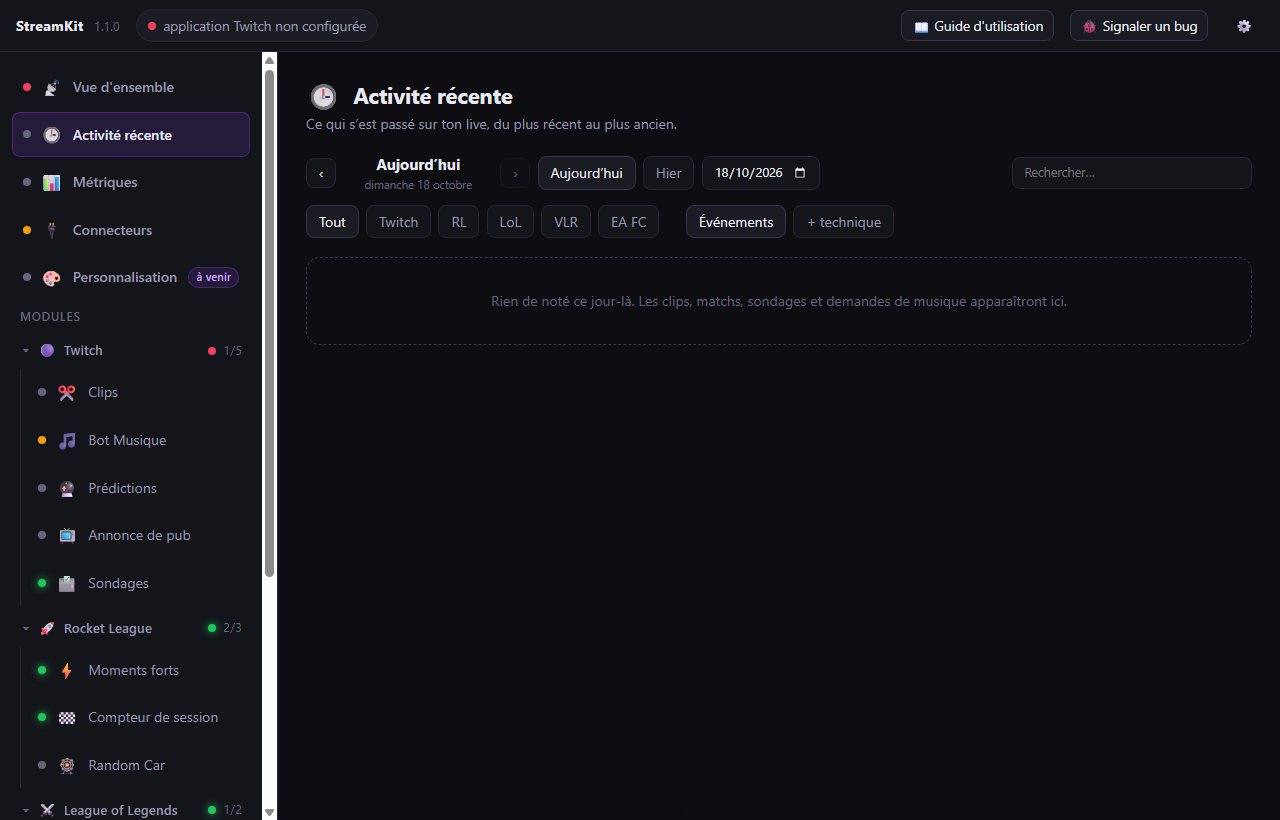
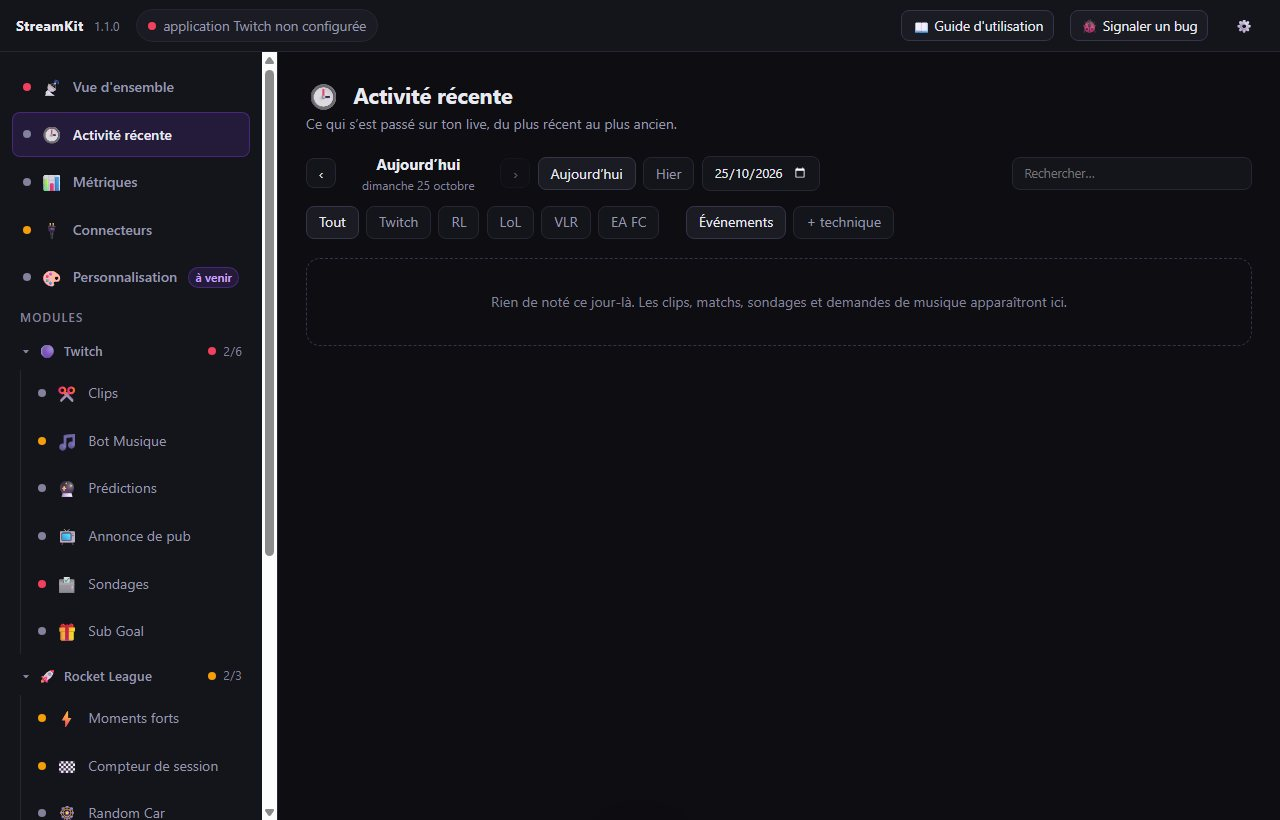
Dashboard : focus clavier, contraste, tailles mini, animations réduites, compteurs du menu alignés
- :focus-visible violet sur tout l'interactif, halo des champs plus visible
- --texte-faible relevé à 5,2:1 ; connexion non configurée grisée par la couleur
- plancher de 12 px pour les textes
- prefers-reduced-motion respecté
- carte de connexion sur deux lignes, phrase complète en info-bulle
- menu : compte des modules activés et points tirés de la santé, comme la Vue d'ensemble
- captures du guide régénérées, repères 5 et 6 recalés

diff --git a/src/dashboard/style.css b/src/dashboard/style.css
@@ -9,7 +9,7 @@
   --bordure-vive: #35354a;
   --texte: #e9e9f2;
   --texte-doux: #9797ab;
-  --texte-faible: #66667a;
+  --texte-faible: #82829a; /* 5,2:1 sur --fond : #66667a etait a 3,4:1, sous le minimum de 4,5:1 */
   --accent: #9146ff;
   --accent-doux: #9146ff22;
   --succes: #22c55e;
@@ -53,6 +53,31 @@ select,
 textarea {
   font: inherit;
   color: inherit;
+}
+
+/* Au clavier (Tab), on doit voir où l'on est : l'anneau par défaut de Chromium
+   est un fin trait bleu, invisible sur ce fond. Rien au clic souris. Les champs
+   ont leur propre halo (plus bas). */
+:focus-visible {
+  outline: 2px solid var(--accent);
+  outline-offset: 2px;
+}
+input:focus-visible,
+select:focus-visible,
+textarea:focus-visible {
+  outline: none;
+}
+
+/* Réglage Windows « Afficher les animations » coupé : on le respecte. */
+@media (prefers-reduced-motion: reduce) {
+  *,
+  *::before,
+  *::after {
+    transition-duration: 0.01ms !important;
+    animation-duration: 0.01ms !important;
+    animation-iteration-count: 1 !important;
+    scroll-behavior: auto !important;
+  }
 }
 
 /* ---------- Barre du haut ---------- */
@@ -181,7 +206,7 @@ a.btn {
 }
 
 .rail h2 {
-  font-size: 0.72rem;
+  font-size: 0.75rem;
   text-transform: uppercase;
   letter-spacing: 0.09em;
   color: var(--texte-faible);
@@ -357,14 +382,22 @@ a.btn {
   grid-column: 2 / 4;
   font-size: 12px;
   color: var(--texte-doux);
+  /* Deux lignes plutot que « application Twitch non co… » : la phrase entiere
+     se lit sans survol. Au-dela, l'info-bulle la donne. */
   overflow: hidden;
-  text-overflow: ellipsis;
-  white-space: nowrap;
+  display: -webkit-box;
+  -webkit-box-orient: vertical;
+  -webkit-line-clamp: 2;
+  line-height: 1.35;
 }
 .cockpit .ck-cx.ko { border-color: color-mix(in srgb, var(--erreur) 45%, transparent); }
 .ck-cx.ko .s { color: var(--erreur); }
 .ck-cx.attention .s { color: var(--avert); }
-.ck-cx.off { opacity: 0.55; }
+/* Une connexion pas configuree s'efface par la couleur, pas par l'opacite :
+   a 0,55 le texte tombait sous le contraste lisible. */
+.ck-cx.off .n,
+.ck-cx.off .s { color: var(--texte-faible); }
+.ck-cx.off .ic { opacity: 0.6; }
 
 /* Corps : univers + colonne laterale */
 .ck-corps {
@@ -463,7 +496,7 @@ a.btn {
   display: inline-flex;
   align-items: center;
   gap: 0.35rem;
-  font-size: 11.5px;
+  font-size: 12px;
   padding: 0.1rem 0.5rem;
   border-radius: 6px;
   background: var(--panneau-clair);
@@ -563,12 +596,12 @@ a.btn {
 .cockpit button.ck-obs:hover { color: var(--texte); }
 .ck-obs .nom small {
   display: block;
-  font-size: 11px;
+  font-size: 12px;
   color: var(--avert);
 }
 .ck-obs .fois {
   flex: none;
-  font-size: 11px;
+  font-size: 12px;
   color: var(--texte-faible);
   font-variant-numeric: tabular-nums;
 }
@@ -588,7 +621,7 @@ a.btn {
   flex: none;
   min-width: 44px;
   text-align: center;
-  font-size: 10.5px;
+  font-size: 12px;
   font-weight: 700;
   letter-spacing: 0.03em;
   padding: 0.05rem 0.4rem;
@@ -646,7 +679,7 @@ a.btn {
 .act-date small {
   display: block;
   font-weight: 400;
-  font-size: 11.5px;
+  font-size: 12px;
   color: var(--texte-faible);
   text-transform: none;
 }
@@ -872,12 +905,12 @@ a.btn {
 }
 .mt-val {
   fill: var(--texte-doux);
-  font-size: 11px;
+  font-size: 12px;
   text-anchor: middle;
 }
 .mt-x {
   fill: var(--texte-faible);
-  font-size: 11px;
+  font-size: 12px;
   text-anchor: middle;
 }
 .mt-vide {
@@ -916,7 +949,7 @@ a.btn {
    L'ambre signale une vue à part : elle n'existe que chez le développeur. */
 .badge-toi {
   margin-left: auto;
-  font-size: 10.5px;
+  font-size: 12px;
   font-weight: 600;
   color: #f5c26b;
   border: 1px solid color-mix(in srgb, var(--avert) 35%, transparent);
@@ -925,7 +958,7 @@ a.btn {
 }
 .badge-toi.grand {
   margin-left: 0.6rem;
-  font-size: 11px;
+  font-size: 12px;
   background: color-mix(in srgb, var(--avert) 10%, transparent);
   padding: 0.05rem 0.6rem;
 }
@@ -955,7 +988,7 @@ a.btn {
   padding-bottom: 0.2rem;
 }
 .md-col small {
-  font-size: 10.5px;
+  font-size: 12px;
   color: var(--texte-faible);
   max-width: 100%;
   overflow: hidden;
@@ -989,7 +1022,7 @@ a.btn {
 }
 .md-v {
   flex: none;
-  font-size: 11px;
+  font-size: 12px;
   padding: 0 0.4rem;
   border-radius: 5px;
   border: 1px solid var(--bordure);
@@ -1004,7 +1037,7 @@ a.btn {
   border-radius: 6px;
   display: grid;
   place-items: center;
-  font-size: 11.5px;
+  font-size: 12px;
   color: #fff;
   font-variant-numeric: tabular-nums;
 }
@@ -1129,7 +1162,7 @@ a.btn {
   flex: 1;
 }
 .carte .entete .provenance {
-  font-size: 0.72rem;
+  font-size: 0.75rem;
   color: var(--texte-faible);
 }
 /* « carte-detail » et surtout pas « detail » : .detail est deja le panneau
@@ -1470,7 +1503,7 @@ a.btn {
   margin-bottom: 1.75rem;
 }
 .section > h3 {
-  font-size: 0.72rem;
+  font-size: 0.75rem;
   text-transform: uppercase;
   letter-spacing: 0.09em;
   color: var(--texte-faible);
@@ -1531,7 +1564,7 @@ input:focus,
 select:focus,
 textarea:focus {
   border-color: var(--accent);
-  box-shadow: 0 0 0 3px var(--accent-doux);
+  box-shadow: 0 0 0 3px color-mix(in srgb, var(--accent) 45%, transparent);
 }
 textarea {
   min-height: 88px;
@@ -1696,7 +1729,7 @@ dialog::backdrop {
   background: #1a7f4b;
 }
 .maj-surtitre {
-  font-size: 0.7rem;
+  font-size: 0.75rem;
   letter-spacing: 0.11em;
   opacity: 0.85;
 }
@@ -1717,7 +1750,7 @@ dialog::backdrop {
   margin-bottom: 1.1rem;
 }
 .maj-bloc h3 {
-  font-size: 0.72rem;
+  font-size: 0.75rem;
   text-transform: uppercase;
   letter-spacing: 0.09em;
   color: var(--texte-faible);
@@ -1870,7 +1903,7 @@ dialog::backdrop {
   overflow: hidden;
   display: grid;
   place-items: center;
-  font-size: 0.72rem;
+  font-size: 0.75rem;
   color: var(--texte-doux);
   text-align: center;
   padding: 0 4px;
@@ -2040,7 +2073,7 @@ kbd {
 }
 .theme-badge {
   display: none;
-  font-size: 0.72rem;
+  font-size: 0.75rem;
   font-weight: 600;
   padding: 0.1rem 0.5rem;
   border-radius: 999px;
@@ -2179,7 +2212,7 @@ kbd {
   overflow-y: auto;
 }
 .guide-s-titre {
-  font-size: 0.7rem;
+  font-size: 0.75rem;
   letter-spacing: 0.1em;
   text-transform: uppercase;
   color: var(--texte-faible);
@@ -2239,7 +2272,7 @@ kbd {
   margin-left: 0.4rem;
   padding: 0.05rem 0.45rem;
   border-radius: 999px;
-  font-size: 0.68rem;
+  font-size: 0.75rem;
   font-weight: 600;
   letter-spacing: 0.02em;
   color: #c9a6ff;
@@ -2253,6 +2286,9 @@ kbd {
 }
 .entree .badge-a-venir {
   margin-left: auto;
+  flex: none;
+  padding: 0 0.4rem;
+  letter-spacing: 0;
 }
 .champ.a-venir .a-venir-saisie {
   filter: blur(2px);

diff --git a/src/dashboard/app.js b/src/dashboard/app.js
@@ -430,11 +430,20 @@ function tailleOverlay(t) {
   return '<div class="taille">Taille dans OBS : <b>1920 × 1080</b> — celle de ta scène</div>';
 }
 
+// Etat d'un module dans le rail : le meme que la Vue d'ensemble des que la
+// sante est lue (un droit Twitch manquant met Sondages en rouge des deux cotes),
+// sinon d'apres le seul etat du module.
+const POINT_RAIL = { ok: 'ok', attente: 'attente', attention: 'attente', ko: 'ko', off: '' };
+function classePoint(m) {
+  if (etat.sante) return POINT_RAIL[etatModule(m, etat.sante).etat] ?? '';
+  if (!m.actif) return '';
+  if (m.etat === 'demarre') return 'ok';
+  if (m.etat === 'incomplet') return 'attente';
+  return 'ko';
+}
+
 function pointDeModule(m) {
-  if (!m.actif) return '<span class="point"></span>';
-  if (m.etat === 'demarre') return '<span class="point ok"></span>';
-  if (m.etat === 'incomplet') return '<span class="point attente"></span>';
-  return '<span class="point ko"></span>';
+  return `<span class="point ${classePoint(m)}"></span>`;
 }
 
 // Catégories repliées, mémorisées d'une session à l'autre. C'est une commodité
@@ -496,14 +505,16 @@ function dessinerRail() {
   $('#entree-personnalisation').classList.toggle('actif', etat.selection === PERSONNALISATION);
   const groupes = grouperParCategorie();
 
-  $('#liste-modules').innerHTML = groupes
+  const html = groupes
     .map(({ categorie, modules }) => {
       const replie = replis.has(categorie.id);
-      const demarres = modules.filter((m) => m.etat === 'demarre').length;
+      // Le compte des modules ACTIVES, comme la Vue d'ensemble : compter ceux qui
+      // tournent affichait 1/5 ici et 2/5 la-bas pour la meme categorie.
+      const actifs = modules.filter((m) => m.actif);
       // La pastille de la catégorie reprend le pire état de ses modules : replié
       // ou non, un module en erreur doit rester visible.
-      const enErreur = modules.some((m) => m.actif && (m.etat === 'erreur' || m.etat === 'incomplet'));
-      const point = enErreur ? 'ko' : demarres ? 'ok' : '';
+      const points = actifs.map(classePoint);
+      const point = ['ko', 'attente', 'ok'].find((p) => points.includes(p)) ?? '';
 
       return `
         <div class="groupe ${replie ? 'replie' : ''}">
@@ -512,7 +523,7 @@ function dessinerRail() {
             <span class="icone">${categorie.icone}</span>
             <span class="nom">${echapper(categorie.label)}</span>
             <span class="point ${point}"></span>
-            <span class="compte">${demarres}/${modules.length}</span>
+            <span class="compte">${actifs.length}/${modules.length}</span>
           </button>
           <div class="modules-groupe">
             ${modules
@@ -542,7 +553,14 @@ function dessinerRail() {
         </div>`;
     })
     .join('');
+  // Redessine a chaque lecture de la sante : on ne touche le DOM que si quelque
+  // chose a change, sinon le focus clavier sauterait toutes les quelques secondes.
+  if (html !== dernierRail) {
+    $('#liste-modules').innerHTML = html;
+    dernierRail = html;
+  }
 }
+let dernierRail = '';
 
 // Un seul écouteur pour tout le rail, posé une fois au démarrage (audit U8) :
 // le rail est redessiné sans cesse, et rebrancher chaque bouton à chaque dessin
@@ -806,7 +824,8 @@ function dessinerHero(h) {
 function dessinerConnexion(l) {
   const e = l.etat === 'inactif' ? 'off' : l.etat;
   return `
-    <button class="ck-cx ${e}" data-ck-connexion="${echapper(l.id)}" title="${echapper(l.aide || '')}">
+    <button class="ck-cx ${e}" data-ck-connexion="${echapper(l.id)}"
+      title="${echapper([l.detail, l.aide].filter(Boolean).join('\n'))}">
       <span class="ic">${echapper(l.icone || '🔌')}</span>
       <span class="n">${echapper(l.nom)}</span>
       <span class="d ${PASTILLE[e]}"></span>
@@ -1708,6 +1727,8 @@ async function chargerSante() {
       ? 'attente'
       : 'ok';
   $('#point-accueil').className = 'point ' + (etat.sante ? pire : '');
+  // Les points des modules du rail suivent la sante (voir classePoint).
+  dessinerRail();
   if (etat.selection === ACCUEIL) dessinerAccueil();
 }
 

diff --git a/src/dashboard/guide/guide.html b/src/dashboard/guide/guide.html
@@ -65,8 +65,8 @@
           <span class="guide-repere" style="left: 76.2%; top: 13%">2</span>
           <span class="guide-repere" style="left: 43.5%; top: 38.5%">3</span>
           <span class="guide-repere" style="left: 67.4%; top: 70.4%">4</span>
-          <span class="guide-repere" style="left: 84%; top: 56%">5</span>
-          <span class="guide-repere" style="left: 84%; top: 92.7%">6</span>
+          <span class="guide-repere" style="left: 84%; top: 57.8%">5</span>
+          <span class="guide-repere" style="left: 84%; top: 94.3%">6</span>
         </div>
         <ul class="guide-legende">
           <li>
